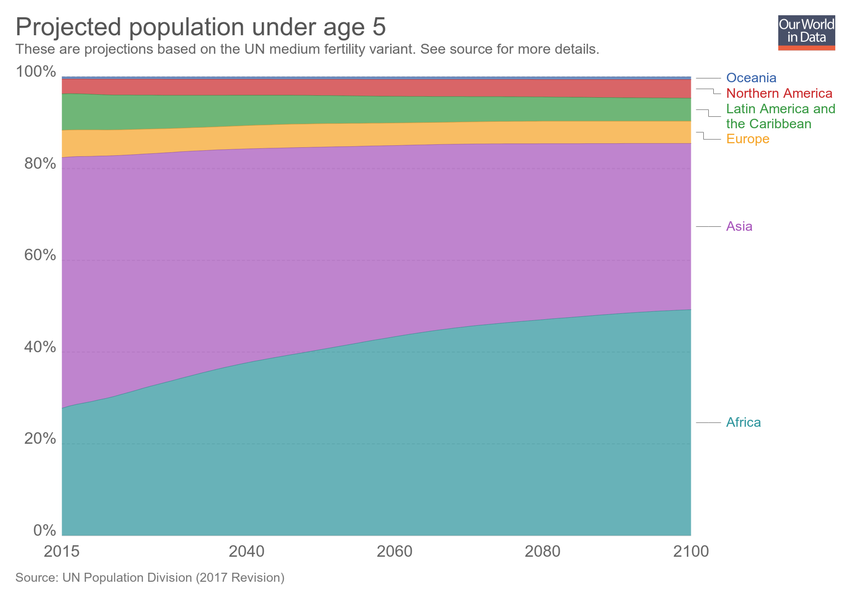
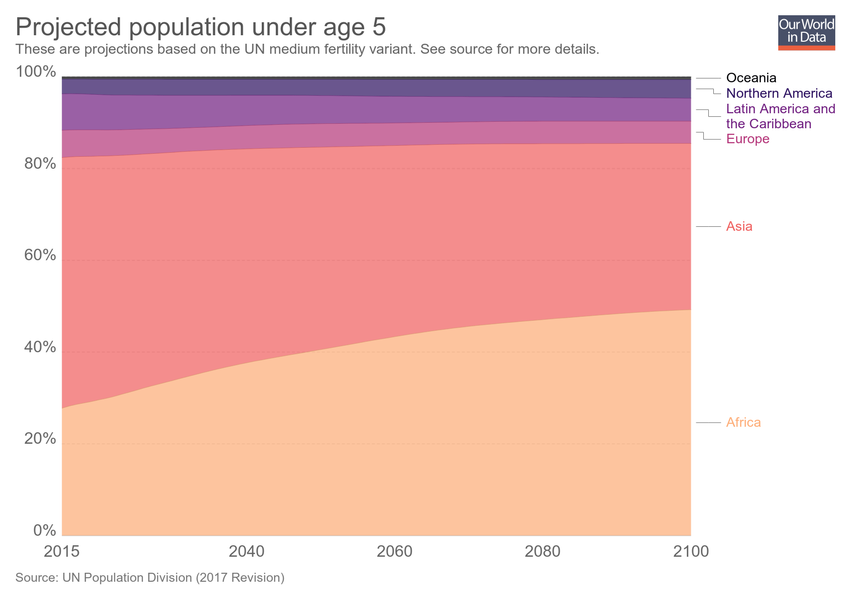
Updating chart projected-population-under-age-5

diff --git a/grapher/projected-population-under-age-5.html b/grapher/projected-population-under-age-5.html
@@ -1,4 +1,4 @@
-<!doctype html><html><head><meta name="viewport" content="width=device-width, initial-scale=1" /><title>Projected population under age 5 - Our World in Data</title><meta name="description" content="These are projections based on the UN medium fertility variant. See source for more details." /><link rel="canonical" href="https://ourworldindata.org/grapher/projected-population-under-age-5" /><meta property="fb:app_id" content="1149943818390250" /><meta property="og:url" content="https://ourworldindata.org/grapher/projected-population-under-age-5" /><meta property="og:title" content="Projected population under age 5" /><meta property="og:description" content="These are projections based on the UN medium fertility variant. See source for more details." /><meta property="og:image" content="https://ourworldindata.org/grapher/exports/projected-population-under-age-5.png?v=3" /><meta property="og:image:width" content="850" /><meta property="og:image:height" content="600" /><meta property="og:site_name" content="Our World in Data" /><meta name="twitter:card" content="summary_large_image" /><meta name="twitter:site" content="@OurWorldInData" /><meta name="twitter:creator" content="@OurWorldInData" /><meta name="twitter:title" content="Projected population under age 5" /><meta name="twitter:description" content="These are projections based on the UN medium fertility variant. See source for more details." /><meta name="twitter:image" content="https://ourworldindata.org/grapher/exports/projected-population-under-age-5.png?v=3" /><style>
+<!doctype html><html><head><meta name="viewport" content="width=device-width, initial-scale=1" /><title>Projected population under age 5 - Our World in Data</title><meta name="description" content="These are projections based on the UN medium fertility variant. See source for more details." /><link rel="canonical" href="https://ourworldindata.org/grapher/projected-population-under-age-5" /><meta property="fb:app_id" content="1149943818390250" /><meta property="og:url" content="https://ourworldindata.org/grapher/projected-population-under-age-5" /><meta property="og:title" content="Projected population under age 5" /><meta property="og:description" content="These are projections based on the UN medium fertility variant. See source for more details." /><meta property="og:image" content="https://ourworldindata.org/grapher/exports/projected-population-under-age-5.png?v=4" /><meta property="og:image:width" content="850" /><meta property="og:image:height" content="600" /><meta property="og:site_name" content="Our World in Data" /><meta name="twitter:card" content="summary_large_image" /><meta name="twitter:site" content="@OurWorldInData" /><meta name="twitter:creator" content="@OurWorldInData" /><meta name="twitter:title" content="Projected population under age 5" /><meta name="twitter:description" content="These are projections based on the UN medium fertility variant. See source for more details." /><meta name="twitter:image" content="https://ourworldindata.org/grapher/exports/projected-population-under-age-5.png?v=4" /><style>
         html, body {
             height: 100%;
             margin: 0;
@@ -20,8 +20,8 @@
         }
     </style><noscript><style>
                     figure { display: none !important; }
-                </style></noscript><link rel="stylesheet" href="https://ourworldindata.org/grapher/assets/commons.bundle.0cade97703a5a10acaac.css" /><link rel="preload" href="/grapher/data/variables/8468.json?v=3" as="fetch" crossorigin /></head><body class="singleChart"><figure data-grapher-src="/grapher/projected-population-under-age-5"></figure><noscript id="fallback"><img src="/grapher/exports/projected-population-under-age-5.svg" /><p>Interactive visualization requires JavaScript</p></noscript><script src="https://cdn.polyfill.io/v2/polyfill.min.js?features=es6,fetch"></script><script src="https://ourworldindata.org/grapher/assets/commons.bundle.0cade97703a5a10acaac.js"></script><script src="https://ourworldindata.org/grapher/assets/charts.bundle.0cade97703a5a10acaac.js"></script><script>
-        var jsonConfig = {"id":2940,"map":{"projection":"World","colorSchemeLabels":[],"colorSchemeValues":[],"customNumericColors":[],"customCategoryColors":{},"customCategoryLabels":{},"customHiddenCategories":{}},"tab":"chart","slug":"projected-population-under-age-5","type":"StackedArea","title":"Projected population under age 5","xAxis":{"scaleType":"linear"},"yAxis":{"min":0,"scaleType":"linear"},"version":3,"subtitle":"These are projections based on the UN medium fertility variant. See source for more details.","hasMapTab":false,"stackMode":"relative","dimensions":[{"display":{},"property":"y","variableId":8468}],"isAutoSlug":true,"hasChartTab":true,"isPublished":true,"selectedData":[{"index":0,"entityId":277},{"index":0,"entityId":450},{"index":0,"entityId":343},{"index":0,"entityId":276},{"index":0,"entityId":275},{"index":0,"entityId":273}],"addCountryMode":"add-country","baseColorScheme":"owid-distinct","invertColorScheme":true};
+                </style></noscript><link rel="stylesheet" href="https://ourworldindata.org/grapher/assets/commons.bundle.0cade97703a5a10acaac.css" /><link rel="preload" href="/grapher/data/variables/8468.json?v=4" as="fetch" crossorigin /></head><body class="singleChart"><figure data-grapher-src="/grapher/projected-population-under-age-5"></figure><noscript id="fallback"><img src="/grapher/exports/projected-population-under-age-5.svg" /><p>Interactive visualization requires JavaScript</p></noscript><script src="https://cdn.polyfill.io/v2/polyfill.min.js?features=es6,fetch"></script><script src="https://ourworldindata.org/grapher/assets/commons.bundle.0cade97703a5a10acaac.js"></script><script src="https://ourworldindata.org/grapher/assets/charts.bundle.0cade97703a5a10acaac.js"></script><script>
+        var jsonConfig = {"id":2940,"map":{"projection":"World","colorSchemeLabels":[],"colorSchemeValues":[],"customNumericColors":[],"customCategoryColors":{},"customCategoryLabels":{},"customHiddenCategories":{}},"tab":"chart","slug":"projected-population-under-age-5","type":"StackedArea","title":"Projected population under age 5","xAxis":{"scaleType":"linear"},"yAxis":{"min":0,"scaleType":"linear"},"version":4,"subtitle":"These are projections based on the UN medium fertility variant. See source for more details.","hasMapTab":false,"stackMode":"relative","dimensions":[{"display":{},"property":"y","variableId":8468}],"hasChartTab":true,"isPublished":true,"selectedData":[{"index":0,"entityId":277},{"index":0,"entityId":450},{"index":0,"entityId":343},{"index":0,"entityId":276},{"index":0,"entityId":275},{"index":0,"entityId":273}],"addCountryMode":"add-country","baseColorScheme":"Magma","invertColorScheme":true};
         var figure = document.getElementsByTagName("figure")[0];
         try {
             window.App = {};
